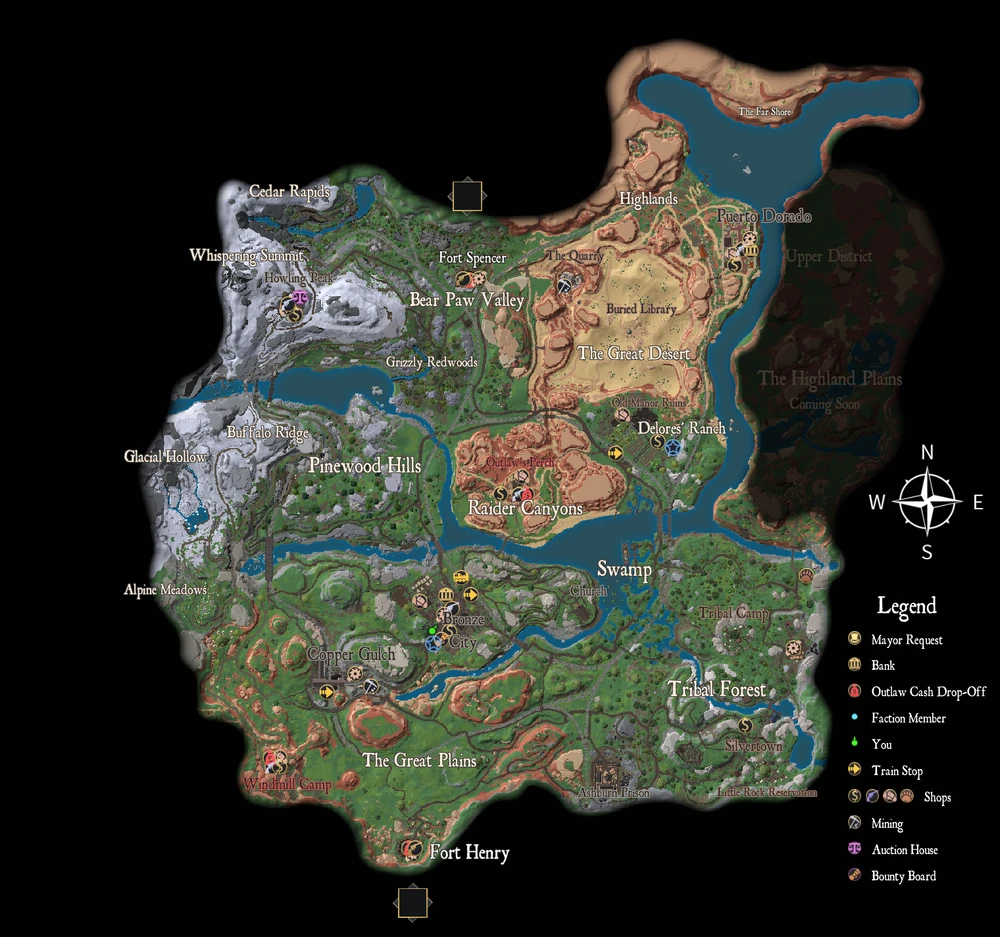
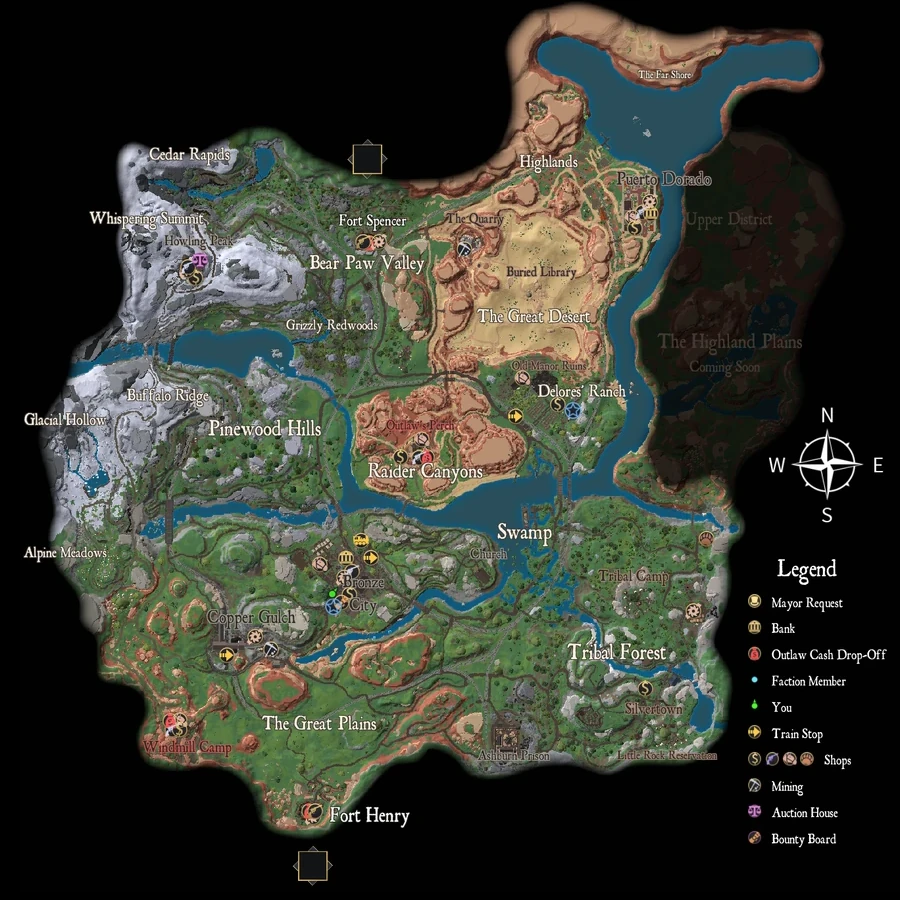
fixed picture

diff --git a/src/pages/Index.tsx b/src/pages/Index.tsx
@@ -158,8 +158,8 @@ const Index = () => {
             style={{
               transform: `translate(${mapPosition.x}px, ${mapPosition.y}px) scale(${zoom})`,
               transformOrigin: 'center',
-              width: '800px',
-              height: '600px',
+              width: '100%',
+              height: '100%',
               backgroundImage: `url('/map.webp')`,
               backgroundSize: 'cover',
               backgroundPosition: 'center',
